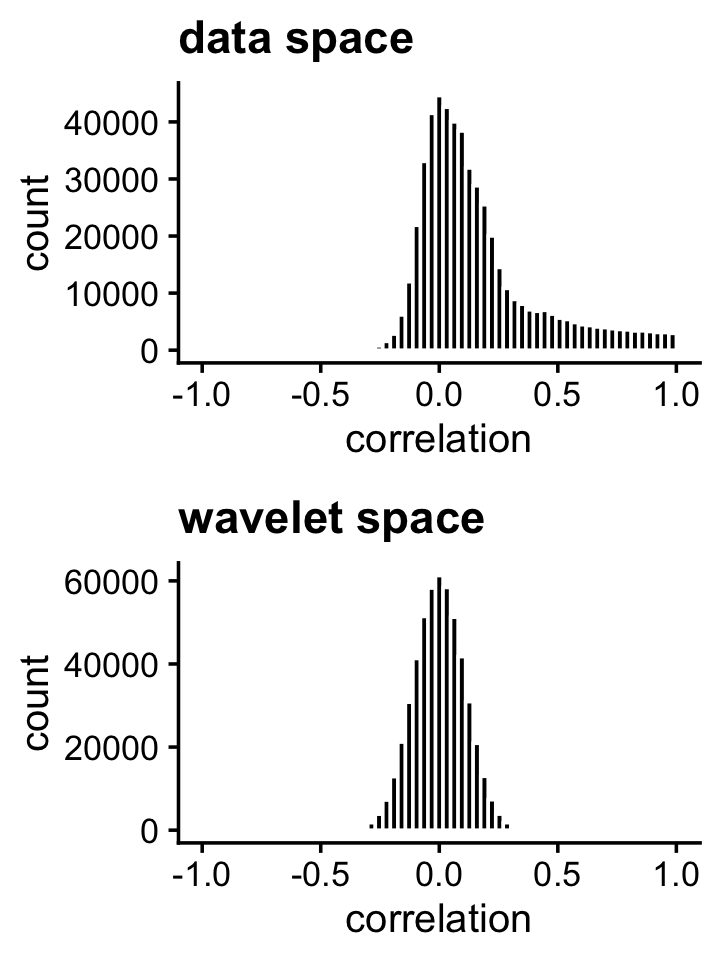
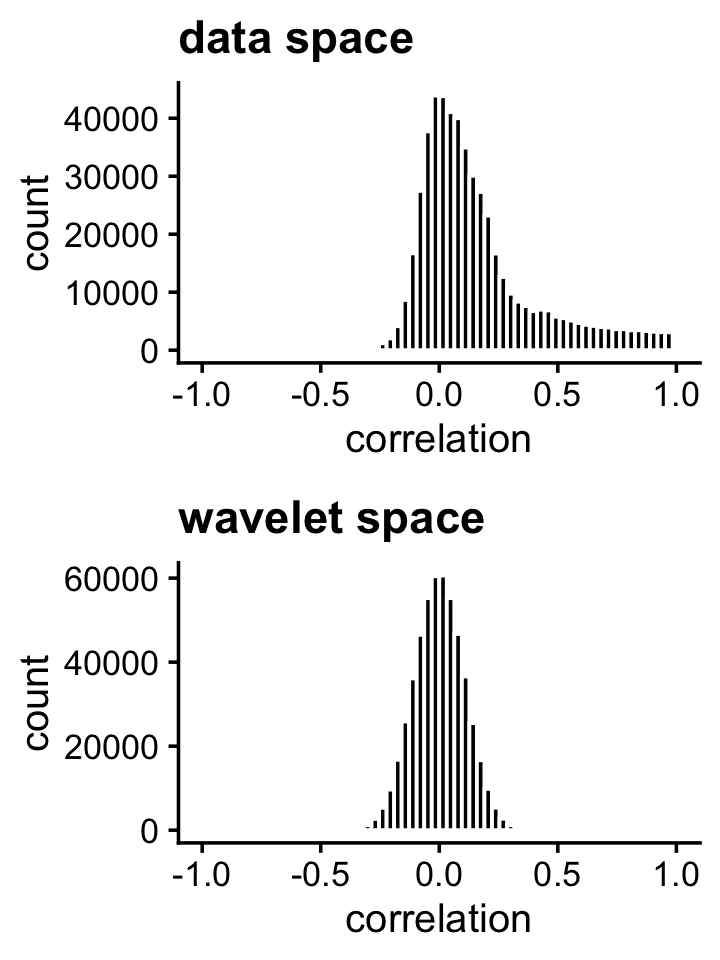
Added GP example to whitening_demo.

diff --git a/docs/whitening_demo.html b/docs/whitening_demo.html
@@ -301,7 +301,7 @@ class="glyphicon glyphicon-ok text-success" aria-hidden="true"></span>
 <div class="tab-content">
 <div id="summary" class="tab-pane fade in active">
 <p>
-<strong>Last updated:</strong> 2025-12-19
+<strong>Last updated:</strong> 2026-02-19
 </p>
 <p>
 <strong>Checks:</strong> <span
@@ -433,15 +433,15 @@ project makes it easier to run your code on other machines.</p>
 <div class="panel panel-default">
 <div class="panel-heading">
 <p class="panel-title">
-<a data-toggle="collapse" data-parent="#workflowr-checks" href="#strongRepositoryversionstrongahrefhttpsgithubcomstephenslabfsusieexperimentstreed772f042be003df30c4676792708c0a33bbede75targetblankd772f04a">
+<a data-toggle="collapse" data-parent="#workflowr-checks" href="#strongRepositoryversionstrongahrefhttpsgithubcomstephenslabfsusieexperimentstree5f829034ea52cb5c7b4b8f50df1e16596b7c6b90targetblank5f82903a">
 <span class="glyphicon glyphicon-ok text-success"
 aria-hidden="true"></span> <strong>Repository version:</strong>
-<a href="https://github.com/stephenslab/fsusie-experiments/tree/d772f042be003df30c4676792708c0a33bbede75" target="_blank">d772f04</a>
+<a href="https://github.com/stephenslab/fsusie-experiments/tree/5f829034ea52cb5c7b4b8f50df1e16596b7c6b90" target="_blank">5f82903</a>
 </a>
 </p>
 </div>
 <div
[2 lines of base64/hex data omitted]
 class="panel-collapse collapse">
 <div class="panel-body">
 <p>
@@ -451,7 +451,7 @@ reproducibility.
 </p>
 <p>
 The results in this page were generated with repository version
-<a href="https://github.com/stephenslab/fsusie-experiments/tree/d772f042be003df30c4676792708c0a33bbede75" target="_blank">d772f04</a>.
+<a href="https://github.com/stephenslab/fsusie-experiments/tree/5f829034ea52cb5c7b4b8f50df1e16596b7c6b90" target="_blank">5f82903</a>.
 See the <em>Past versions</em> tab to see a history of the changes made
 to the R Markdown and HTML files.
 </p>
@@ -465,7 +465,11 @@ depends on. Below is the status of the Git repository when the results
 were generated:
 </p>
 <pre><code>
+Ignored files:
+    Ignored:    analysis/figure/
+
 Untracked files:
+    Untracked:  analysis/h3k27ac_cs1snp_fsusie.rds
     Untracked:  analysis/rosmap_h3k27ac_cache/
     Untracked:  analysis/rosmap_overview_cache/
     Untracked:  data/afreq.RData
@@ -483,6 +487,9 @@ Untracked files:
     Untracked:  outputs/ROSMAP_mQTL_cs_effect_cpg_annotation.tsv.gz
     Untracked:  outputs/ROSMAP_mQTL_cs_snp_annotation.tsv.gz
     Untracked:  outputs/ROSMAP_mQTL_cs_snp_toppc1_annotation.tsv.gz
+    Untracked:  scripts_plot/cases_study/#CR1_CR2_from_RData.R#
+    Untracked:  scripts_plot/cases_study/.#CR1_CR2_from_RData.R
+    Untracked:  scripts_plot/cases_study/CR1CR2_zoomin_plot.pdf
 
 </code></pre>
 <p>
@@ -528,6 +535,40 @@ Message
 </tr>
 </thead>
 <tbody>
+<tr>
+<td>
+Rmd
+</td>
+<td>
+<a href="https://github.com/stephenslab/fsusie-experiments/blob/5f829034ea52cb5c7b4b8f50df1e16596b7c6b90/analysis/whitening_demo.Rmd" target="_blank">5f82903</a>
+</td>
+<td>
+Peter Carbonetto
+</td>
+<td>
+2026-02-19
+</td>
+<td>
+wflow_publish("whitening_demo.Rmd", view = F, verbose = T)
+</td>
+</tr>
+<tr>
+<td>
+html
+</td>
+<td>
+<a href="https://rawcdn.githack.com/stephenslab/fsusie-experiments/6bc1fb18ead4f53e35cb3f8df557f835315e9e19/docs/whitening_demo.html" target="_blank">6bc1fb1</a>
+</td>
+<td>
+Peter Carbonetto
+</td>
+<td>
+2025-12-19
+</td>
+<td>
+A few small fixes to the whitening demo.
+</td>
+</tr>
 <tr>
 <td>
 Rmd
@@ -654,18 +695,21 @@ wflow_publish("index.Rmd")
 </div>
 </div>
 </div>
+<p>Here we give two simple examples to illustrate the decorrelating
+(“biwhitening”) effect of the wavelet transform (on signals that are not
+generated using wavelets).</p>
 <p>Load the wavethresh package as well as a few other packages used this
 demo:</p>
 <pre class="r"><code>library(wavethresh)
-# Loading required package: MASS
-# WaveThresh: R wavelet software, release 4.7.2, installed
-# Copyright Guy Nason and others 1993-2022
-# Note: nlevels has been renamed to nlevelsWT
+library(reshape)
 library(ggplot2)
 library(cowplot)</code></pre>
 <p>Set the seed for reproducibility:</p>
 <pre class="r"><code>set.seed(1)</code></pre>
-<p>Simulate a set of signals with ARMA noise:</p>
+<div id="bumps-example" class="section level2">
+<h2>1. Bumps example</h2>
+<p>Simulate a set of signals using the “bumps” test function from Donoho
+&amp; Johnson, with ARMA noise:</p>
 <pre class="r"><code>n &lt;- 1024
 m &lt;- 100
 SNR &lt;- 2
@@ -680,7 +724,7 @@ for (i in 1:m) {
   y &lt;- v$bumps + e
   Y[i,] &lt;- y
 }</code></pre>
-<p>This is the first noisy signal:</p>
+<p>This is was the first noisy signal looks like:</p>
 <pre class="r"><code>y &lt;- Y[1,]
 pdat &lt;- data.frame(x = x,y = y)
 ggplot(pdat,aes(x = x,y = y)) +
@@ -779,9 +823,10 @@ Peter Carbonetto
 </div>
 </div>
 <p>Observe that the autocorrelation is mostly near zero for the WCs
-(right).</p>
+(right-hand plot).</p>
 <p>Another way to illustrate the decorrelating effect of the DWT is to
-compute the sample correlations:</p>
+compute the sample correlations. Compare the sample correlations in the
+original data space to the sample correlations in the wavelet space:</p>
 <pre class="r"><code>cY &lt;- cor(Y)
 cD &lt;- cor(D)
 p1 &lt;- ggplot(data.frame(x = cY[upper.tri(cY)]),aes(x = x)) +
@@ -794,7 +839,11 @@ p2 &lt;- ggplot(data.frame(x = cD[upper.tri(cD)]),aes(x = x)) +
   xlim(-1,1) +
   labs(x = &quot;correlation&quot;,title = &quot;wavelet space&quot;) +
   theme_cowplot(font_size = 12)
-plot_grid(p1,p2,nrow = 2,ncol = 1)</code></pre>
+plot_grid(p1,p2,nrow = 2,ncol = 1)
+# Warning: Removed 2 rows containing missing values or values outside the scale range
+# (`geom_bar()`).
+# Removed 2 rows containing missing values or values outside the scale range
+# (`geom_bar()`).</code></pre>
 <p><img src="figure/whitening_demo.Rmd/cor-1.png" width="360" style="display: block; margin: auto;" /></p>
 <p>
 <button type="button" class="btn btn-default btn-xs btn-workflowr btn-workflowr-fig" data-toggle="collapse" data-target="#fig-cor-1">
@@ -820,6 +869,17 @@ Date
 <tbody>
 <tr>
 <td>
+<a href="https://github.com/stephenslab/fsusie-experiments/blob/6bc1fb18ead4f53e35cb3f8df557f835315e9e19/docs/figure/whitening_demo.Rmd/cor-1.png" target="_blank">6bc1fb1</a>
+</td>
+<td>
+Peter Carbonetto
+</td>
+<td>
+2025-12-19
+</td>
+</tr>
+<tr>
+<td>
 <a href="https://github.com/stephenslab/fsusie-experiments/blob/03384449a8249d6c5aaa11c0273c8b2ace6fa543/docs/figure/whitening_demo.Rmd/cor-1.png" target="_blank">0338444</a>
 </td>
 <td>
@@ -835,6 +895,49 @@ Peter Carbonetto
 </div>
 <p>Indeed, the strong correlations in the original data space are
 removed in the wavelet space.</p>
+</div>
+<div id="gaussian-process-example" class="section level2">
+<h2>2. Gaussian process example</h2>
+<p>In the second example, we simulate a small data set from a Gaussian
+process (GP) with a Ornstein-Uhlenbeck (O-H) kernel:</p>
+<pre class="r"><code>n &lt;- 2000
+x &lt;- seq(1,32)
+d &lt;- as.matrix(dist(x))
+Sigma &lt;- exp(-d/200)
+Y &lt;- mvrnorm(n,rep(0,32),Sigma)</code></pre>
+<p>In a GP model, the correlations between the points “decay” with
+distance:</p>
+<pre class="r"><code>pdat &lt;- melt(cor(Y))
+colnames(pdat) &lt;- c(&quot;x&quot;,&quot;y&quot;,&quot;cor&quot;)
+ggplot(pdat,aes(x = x,y = y,fill = cor)) +
+  geom_tile(color = &quot;white&quot;) +
+  scale_fill_gradient(low = &quot;white&quot;, high = &quot;red&quot;) +
+  theme_cowplot(font_size = 12)</code></pre>
+<p><img src="figure/whitening_demo.Rmd/plot-cor-gp-1.png" width="480" style="display: block; margin: auto;" /></p>
+<p>Now perform the discrete wavelet transform on these data:</p>
+<pre class="r"><code>D &lt;- t(apply(Y,1,function (x) wd(x)$D))</code></pre>
+<p>ADD TEXT HERE</p>
+<pre class="r"><code>par(mfrow = c(1,2))
+y &lt;- Y[1,]
+d &lt;- D[1,]
+acf(y)
+acf(d)</code></pre>
+<p><img src="figure/whitening_demo.Rmd/acf-gp-1.png" width="720" style="display: block; margin: auto;" /></p>
+<p>ADD TEXT HERE.</p>
+<pre class="r"><code>cY &lt;- cor(Y)
+cD &lt;- cor(D)
+p1 &lt;- ggplot(data.frame(x = cY[upper.tri(cY)]),aes(x = x)) +
+  geom_histogram(fill = &quot;black&quot;,color = &quot;white&quot;,bins = 64) +
+  xlim(-1,1) +
+  labs(x = &quot;correlation&quot;,title = &quot;data space&quot;) +
+  theme_cowplot(font_size = 12)
+p2 &lt;- ggplot(data.frame(x = cD[upper.tri(cD)]),aes(x = x)) +
+  geom_histogram(fill = &quot;black&quot;,color = &quot;white&quot;,bins = 64) +
+  xlim(-1,1) +
+  labs(x = &quot;correlation&quot;,title = &quot;wavelet space&quot;) +
+  theme_cowplot(font_size = 12)
+plot_grid(p1,p2,nrow = 2,ncol = 1)</code></pre>
+<p><img src="figure/whitening_demo.Rmd/cor-gp-1.png" width="360" style="display: block; margin: auto;" /></p>
 <br>
 <p>
 <button type="button" class="btn btn-default btn-workflowr btn-workflowr-sessioninfo" data-toggle="collapse" data-target="#workflowr-sessioninfo" style="display: block;">
@@ -862,21 +965,24 @@ Session information
 # [1] stats     graphics  grDevices utils     datasets  methods   base     
 # 
 # other attached packages:
-# [1] cowplot_1.1.3    ggplot2_3.5.2    wavethresh_4.7.2 MASS_7.3-60.0.1 
+# [1] cowplot_1.1.3    ggplot2_4.0.1    reshape_0.8.9    wavethresh_4.7.2
+# [5] MASS_7.3-60.0.1 
 # 
 # loaded via a namespace (and not attached):
 #  [1] gtable_0.3.6       jsonlite_2.0.0     dplyr_1.1.4        compiler_4.3.3    
 #  [5] promises_1.3.3     tidyselect_1.2.1   Rcpp_1.1.0         stringr_1.5.1     
 #  [9] git2r_0.33.0       dichromat_2.0-0.1  later_1.4.2        jquerylib_0.1.4   
 # [13] scales_1.4.0       yaml_2.3.10        fastmap_1.2.0      R6_2.6.1          
-# [17] labeling_0.4.3     generics_0.1.4     workflowr_1.7.1    knitr_1.50        
-# [21] tibble_3.3.0       rprojroot_2.0.4    RColorBrewer_1.1-3 bslib_0.9.0       
-# [25] pillar_1.11.0      rlang_1.1.6        cachem_1.1.0       stringi_1.8.7     
-# [29] httpuv_1.6.14      xfun_0.52          fs_1.6.6           sass_0.4.10       
-# [33] cli_3.6.5          withr_3.0.2        magrittr_2.0.3     digest_0.6.37     
-# [37] grid_4.3.3         lifecycle_1.0.4    vctrs_0.6.5        evaluate_1.0.4    
-# [41] glue_1.8.0         farver_2.1.2       whisker_0.4.1      rmarkdown_2.29    
-# [45] tools_4.3.3        pkgconfig_2.0.3    htmltools_0.5.8.1</code></pre>
+# [17] plyr_1.8.9         labeling_0.4.3     generics_0.1.4     workflowr_1.7.1   
+# [21] knitr_1.50         tibble_3.3.0       rprojroot_2.0.4    RColorBrewer_1.1-3
+# [25] bslib_0.9.0        pillar_1.11.0      rlang_1.1.6        cachem_1.1.0      
+# [29] stringi_1.8.7      httpuv_1.6.14      xfun_0.52          S7_0.2.0          
+# [33] fs_1.6.6           sass_0.4.10        cli_3.6.5          withr_3.0.2       
+# [37] magrittr_2.0.3     digest_0.6.37      grid_4.3.3         lifecycle_1.0.4   
+# [41] vctrs_0.6.5        evaluate_1.0.4     glue_1.8.0         farver_2.1.2      
+# [45] whisker_0.4.1      rmarkdown_2.29     tools_4.3.3        pkgconfig_2.0.3   
+# [49] htmltools_0.5.8.1</code></pre>
+</div>
 </div>
 
 
